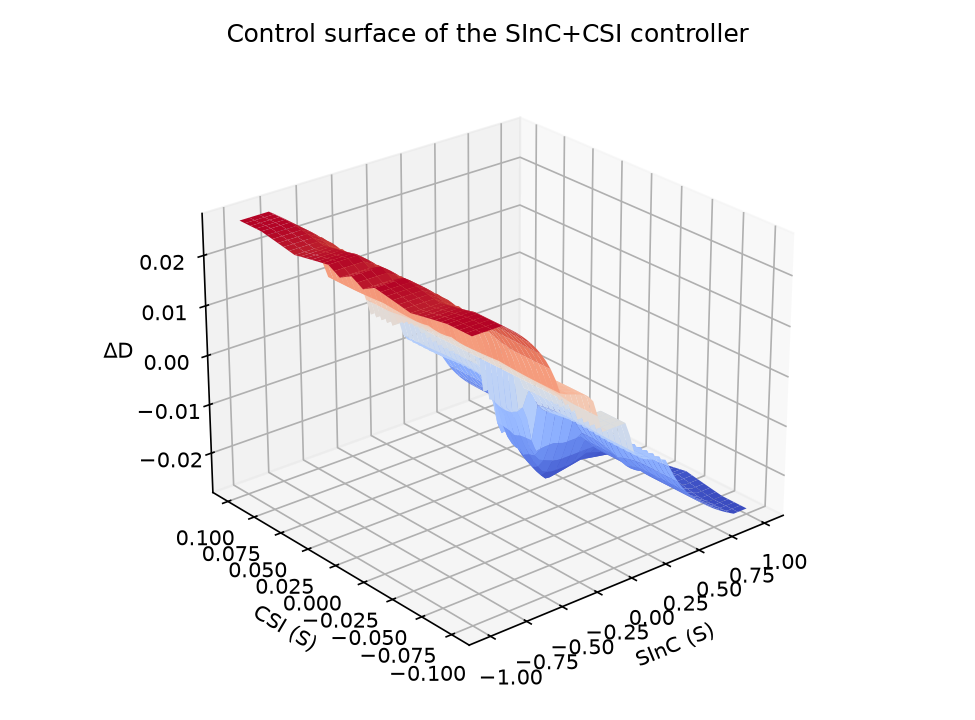
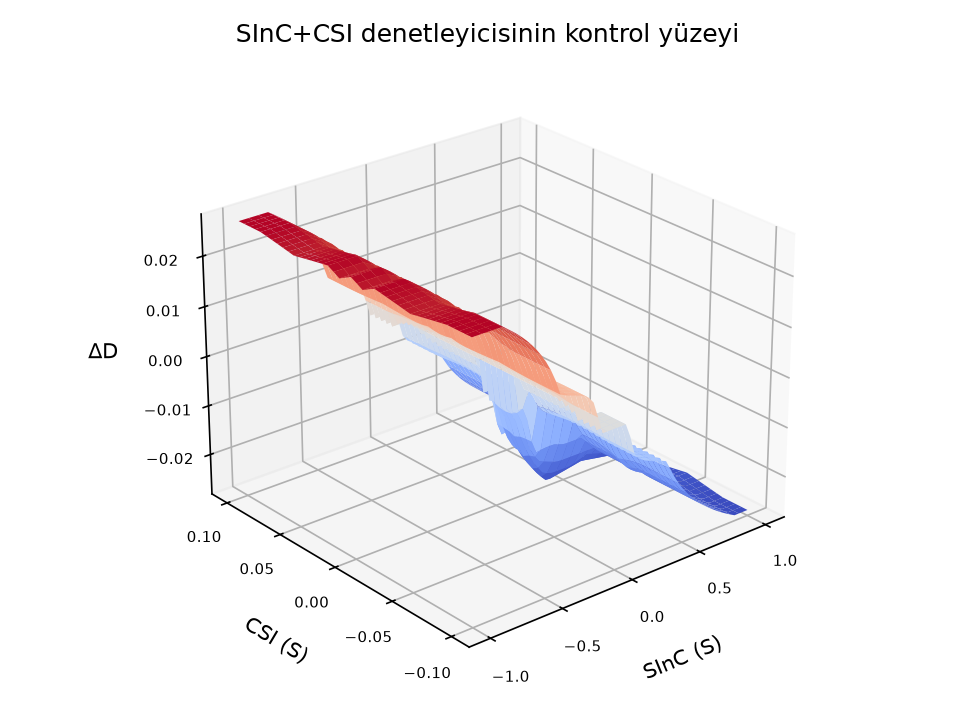
Figures: Turkish titles, axis labels and legends
The report and slides are in Turkish, but the figures still had English text.
Plot labels now come from separate Turkish dictionaries; the English names stay
as keys in the CSV tables the report reads, so no numbers change (CSVs identical
after the rerun). Also: tick spacing on the 3D control surface, legend moved off
the bars in the ablation chart, sampling label no longer crosses the arrow in
the block diagram.

diff --git a/experiments/proposed/plot_noise.py b/experiments/proposed/plot_noise.py
@@ -29,6 +29,19 @@ LABEL = {
     "prop+C": "Proposed + C", "prop+FD": "Proposed + F + D", "prop+FDC": "Proposed + F + D + C (robust)",
     "prop+FDC+gauss": "Robust + Gaussian MF",
 }
+# Turkish names for the figures only (LABEL stays English: it is the key in the CSV tables the report reads).
+LABEL_TR = {
+    "po": "P&O", "po+F": "P&O + filtre", "inc": "InC", "inc+F": "InC + filtre",
+    "flc_sinc": "Alg. 3 (makale)", "alg3+FDC": "Alg. 3 + dayanıklı kestirici",
+    "flc_sinc_csi": "Önerilen (makale)", "prop+F": "Önerilen + F", "prop+D": "Önerilen + D",
+    "prop+C": "Önerilen + C", "prop+FD": "Önerilen + F + D", "prop+FDC": "Önerilen + F + D + C (dayanıklı)",
+    "prop+FDC+gauss": "Dayanıklı + Gauss ÜF",
+}
+
+
+def pct(x: float) -> str:
+    """Turkish percent notation for figure labels: 0.5 -> '%0,5'."""
+    return "%" + f"{x:g}".replace(".", ",")
 
 
 def main() -> None:
@@ -47,10 +60,10 @@ def main() -> None:
              "po+F": ("tab:gray", "-"), "inc+F": ("tab:brown", "-")}
     for v, (c, ls) in style.items():
         d = agg[agg.variant == v]
-        ax.errorbar(d.noise_pct_fs, d.eff, yerr=d.eff_std, color=c, ls=ls, marker="o", capsize=3, label=LABEL[v])
-    ax.set_xlabel("Measurement noise σ (% of full scale: Voc, Isc)")
-    ax.set_ylabel("Average MPPT efficiency (%)")
-    ax.set_title("Noise robustness (Fig. 17 profile, mean ± std over 5 seeds)")
+        ax.errorbar(d.noise_pct_fs, d.eff, yerr=d.eff_std, color=c, ls=ls, marker="o", capsize=3, label=LABEL_TR[v])
+    ax.set_xlabel("Ölçüm gürültüsü σ (tam ölçeğin yüzdesi: Voc, Isc)")
+    ax.set_ylabel("Ortalama MPPT verimi (%)")
+    ax.set_title("Gürültüye dayanıklılık (makale Şekil 17 profili, 5 tohum: ortalama ± std. sapma)")
     ax.set_ylim(30, 100)
     ax.grid(alpha=0.3)
     ax.legend(fontsize=8, loc="lower left")
@@ -65,12 +78,13 @@ def main() -> None:
     x = np.arange(len(abl))
     for k, lv in enumerate(levels):
         d = agg[agg.noise_pct_fs == lv].set_index("variant").loc[abl]
-        ax.bar(x + (k - 1) * w, d.eff, w, yerr=d.eff_std, capsize=2, label=f"σ = {lv:g} % FS")
-    ax.set_xticks(x, [LABEL[a] for a in abl], rotation=20, ha="right", fontsize=8)
-    ax.set_ylabel("Efficiency (%)")
-    ax.set_ylim(40, 100)
-    ax.set_title("Ablation of the robust SInC estimator (F = EMA filter, D = dead band, C = clipping)")
-    ax.legend()
+        ax.bar(x + (k - 1) * w, d.eff, w, yerr=d.eff_std, capsize=2, label=f"σ = {pct(lv)} tam ölçek")
+    ax.set_xticks(x, [LABEL_TR[a] for a in abl], rotation=20, ha="right", fontsize=8)
+    ax.set_ylabel("Verim (%)")
+    ax.set_ylim(40, 110)
+    ax.set_yticks(range(40, 101, 10))
+    ax.set_title("Dayanıklı SInC kestiricisinin ablasyonu (F: EMA filtresi, D: ölü bölge, C: kırpma)")
+    ax.legend(loc="upper center", ncol=3, fontsize=9)
     ax.grid(axis="y", alpha=0.3)
     fig.tight_layout()
     fig.savefig(FIG / "noise_ablation.png", dpi=150)
@@ -82,9 +96,9 @@ def main() -> None:
         lg = run(make(v), noise_std=(lv * PANEL.voc, lv * PANEL.isc), seed=0)
         ax[0, col].plot(lg["t"], lg["p_pv"], "k", lw=0.7, label="P_pv")
         ax[0, col].plot(lg["t"], lg["p_opt"], "r:", label="P_opt")
-        ax[0, col].set_title(f"{LABEL[v]}, σ = 0.5 % FS")
+        ax[0, col].set_title(f"{LABEL_TR[v]}, σ = %0,5 tam ölçek")
         ax[1, col].plot(lg["t"], lg["d"], lw=0.7)
-        ax[1, col].set_xlabel("Time (s)")
+        ax[1, col].set_xlabel("Zaman (s)")
     ax[0, 0].set_ylabel("P (W)"); ax[1, 0].set_ylabel("D"); ax[0, 0].legend()
     fig.tight_layout()
     fig.savefig(FIG / "noise_timeseries_0p5pct.png", dpi=150)

diff --git a/experiments/baseline/plot_system.py b/experiments/baseline/plot_system.py
@@ -36,7 +36,7 @@ def pv_curves() -> None:
     for a in ax:
         a.grid(alpha=0.3)
     ax[1].legend(fontsize=8)
-    fig.suptitle("SPR-210 single-diode model, 25 °C")
+    fig.suptitle("SPR-210 tek diyot modeli, 25 °C")
     fig.tight_layout()
     fig.savefig(FIG / "pv_curves.png", dpi=150)
 
@@ -67,7 +67,10 @@ def surface() -> None:
     fig = plt.figure(figsize=(6.5, 4.8))
     ax = fig.add_subplot(projection="3d")
     ax.plot_surface(S, C, Z, cmap="coolwarm", linewidth=0, antialiased=True)
-    ax.set(xlabel="SInC (S)", ylabel="CSI (S)", zlabel="ΔD", title="Control surface of the SInC+CSI controller")
+    ax.set_xlabel("SInC (S)", labelpad=8); ax.set_ylabel("CSI (S)", labelpad=8); ax.set_zlabel("ΔD", labelpad=8)
+    ax.set_title("SInC+CSI denetleyicisinin kontrol yüzeyi")
+    ax.set_xticks([-1.0, -0.5, 0.0, 0.5, 1.0]); ax.set_yticks([-0.1, -0.05, 0.0, 0.05, 0.1])
+    ax.tick_params(labelsize=7)
     ax.view_init(elev=25, azim=-130)
     fig.tight_layout()
     fig.savefig(FIG / "fis_surface.png", dpi=150)
@@ -86,24 +89,25 @@ def diagram() -> None:
         if text:
             ax.text((x0 + x1) / 2, (y0 + y1) / 2 + dy, text, ha="center", fontsize=8)
 
-    box(0.2, 2.3, 1.8, 1.0, "PV panel\nSPR-210\n(G, T)", "#fff3c4")
-    box(2.8, 2.3, 2.2, 1.0, "Boost converter\nL=12 mH, Ce=150 µF\nCo=250 µF", "#dbeafe")
-    box(5.8, 2.3, 1.4, 1.0, "Load\nR = 50 Ω", "#e5e7eb")
+    box(0.2, 2.3, 1.8, 1.0, "PV paneli\nSPR-210\n(G, T)", "#fff3c4")
+    box(2.8, 2.3, 2.2, 1.0, "Boost dönüştürücü\nL = 12 mH, Ce = 150 µF\nCo = 250 µF", "#dbeafe")
+    box(5.8, 2.3, 1.4, 1.0, "Yük\nR = 50 Ω", "#e5e7eb")
     arrow(2.0, 2.8, 2.8, 2.8, "V, I")
     arrow(5.0, 2.8, 5.8, 2.8, "Vout")
-    box(0.2, 0.3, 2.4, 1.0, "SInC = I/V + ΔI/ΔV\nCSI = ΔSInC\n(+ robust estimator)", "#dcfce7")
-    box(3.3, 0.3, 2.4, 1.0, "Mamdani FIS\n35 rules (Table 5)\ncentroid → ΔD", "#fce7f3")
-    box(6.4, 0.3, 1.8, 1.0, "D[k] = D[k−1] + ΔD\n0.05 ≤ D ≤ 0.95", "#ede9fe")
-    arrow(1.1, 2.3, 1.1, 1.3, "sample every 1 ms", dy=0.0)
+    box(0.2, 0.3, 2.4, 1.0, "SInC = I/V + ΔI/ΔV\nCSI = ΔSInC\n(+ dayanıklı kestirici)", "#dcfce7")
+    box(3.3, 0.3, 2.4, 1.0, "Mamdani çıkarımı\n35 kural (makale Tablo 5)\nağırlık merkezi → ΔD", "#fce7f3")
+    box(6.4, 0.3, 1.8, 1.0, "D[k] = D[k−1] + ΔD\n0,05 ≤ D ≤ 0,95", "#ede9fe")
+    arrow(1.1, 2.3, 1.1, 1.3)
+    ax.text(1.25, 1.8, "1 ms'de bir\nörnekleme", fontsize=8, va="center", ha="left")
     arrow(2.6, 0.8, 3.3, 0.8)
     arrow(5.7, 0.8, 6.4, 0.8)
     ax.add_patch(FancyArrowPatch((8.2, 0.8), (8.8, 0.8), arrowstyle="-", color="k"))
     ax.add_patch(FancyArrowPatch((8.8, 0.8), (8.8, 1.9), arrowstyle="-", color="k"))
     ax.add_patch(FancyArrowPatch((8.8, 1.9), (3.9, 1.9), arrowstyle="-", color="k"))
     arrow(3.9, 1.9, 3.9, 2.3)
-    ax.text(6.4, 2.0, "duty cycle D (PWM 10 kHz)", fontsize=8, ha="center")
-    ax.text(9.1, 2.8, "Plant: averaged model,\nforward Euler, dt = 10 µs", fontsize=8, va="center")
-    ax.text(9.1, 0.8, "MPPT controller\n(Python)", fontsize=8, va="center")
+    ax.text(6.4, 2.0, "görev oranı D (PWM 10 kHz)", fontsize=8, ha="center")
+    ax.text(9.1, 2.8, "Benzetim: ortalama model,\nileri Euler, dt = 10 µs", fontsize=8, va="center")
+    ax.text(9.1, 0.8, "MPPT denetleyicisi\n(Python)", fontsize=8, va="center")
     fig.tight_layout()
     fig.savefig(FIG / "system_diagram.png", dpi=150)
 

diff --git a/experiments/baseline/reproduce_table6_table7.py b/experiments/baseline/reproduce_table6_table7.py
@@ -28,6 +28,8 @@ TAB = ROOT / "results" / "tables"
 
 ALGOS = ["po", "inc", "flc_sinc", "flc_sinc_csi"]
 LABELS = {"po": "P&O", "inc": "InC", "flc_sinc": "Alg. 3 (SInC)", "flc_sinc_csi": "Proposed (SInC+CSI)"}
+# Turkish names for the figures only (LABELS stays English: it is the key in the CSV tables the report reads).
+LABELS_TR = {"po": "P&O", "inc": "InC", "flc_sinc": "Alg. 3 (SInC)", "flc_sinc_csi": "Önerilen (SInC+CSI)"}
 
 PAPER_T6 = {  # efficiency %, conv avg ms, RMSE, RMS %
     "po": (95.41, 65.0, 8.98, 96.34), "inc": (95.6, 60.0, 8.9, 96.4),
@@ -53,12 +55,12 @@ def table6() -> pd.DataFrame:
         lg = logs[a]
         ax[r, 0].plot(lg["t"], lg["p_pv"], "k", lw=0.8, label="P_pv")
         ax[r, 0].plot(lg["t"], lg["p_opt"], "r:", label="P_opt")
-        ax[r, 0].set_ylabel(f"{LABELS[a]}\nP (W)")
+        ax[r, 0].set_ylabel(f"{LABELS_TR[a]}\nP (W)")
         ax[r, 1].plot(lg["t"], lg["d"], lw=0.8)
         ax[r, 1].set_ylabel("D")
     ax[0, 0].legend(loc="upper left")
-    ax[-1, 0].set_xlabel("Time (s)"); ax[-1, 1].set_xlabel("Time (s)")
-    fig.suptitle("Fig. 17 irradiance profile, 25 °C: PV power and duty cycle (cf. paper Figs. 18–22)")
+    ax[-1, 0].set_xlabel("Zaman (s)"); ax[-1, 1].set_xlabel("Zaman (s)")
+    fig.suptitle("Makale Şekil 17 ışınım profili, 25 °C: panel gücü ve görev oranı (karş. makale Şekil 18–22)")
     fig.tight_layout()
     fig.savefig(FIG / "table6_power_duty.png", dpi=150)
     return pd.DataFrame(rows)
@@ -74,11 +76,11 @@ def table7() -> pd.DataFrame:
             s = summarize(lg, [0.0, 0.2, 0.4])
             p = PAPER_T7[(g, a)]
             rows.append({"G": g, "algorithm": LABELS[a], **s, "paper_rmse_w": p[0], "paper_rms_pct": p[1]})
-            ax[0].plot(lg["t"], lg["p_pv"], lw=0.8, label=LABELS[a])
-            ax[1].plot(lg["t"], lg["d"], lw=0.8, label=LABELS[a])
+            ax[0].plot(lg["t"], lg["p_pv"], lw=0.8, label=LABELS_TR[a])
+            ax[1].plot(lg["t"], lg["d"], lw=0.8, label=LABELS_TR[a])
         ax[0].plot(lg["t"], lg["p_opt"], "r:", label="P_opt")
-        ax[0].set_ylabel("P (W)"); ax[1].set_ylabel("D"); ax[1].set_xlabel("Time (s)")
-        ax[0].legend(); ax[0].set_title(f"Load steps 50→20→35 Ω at G = {g} W/m² (cf. paper Figs. 24–25)")
+        ax[0].set_ylabel("P (W)"); ax[1].set_ylabel("D"); ax[1].set_xlabel("Zaman (s)")
+        ax[0].legend(); ax[0].set_title(f"G = {g} W/m² ışınımda yük basamakları 50→20→35 Ω (karş. makale Şekil 24–25)")
         fig.tight_layout()
         fig.savefig(FIG / f"table7_load_{g}.png", dpi=150)
     return pd.DataFrame(rows)

diff --git a/experiments/baseline/duty_sweep_fig13.py b/experiments/baseline/duty_sweep_fig13.py
@@ -48,12 +48,12 @@ def main() -> None:
         ax[1, col].plot(t[m], sinc[m], "k")
         ax[1, col].axhline(0, color="gray", lw=0.5)
         ax[2, col].plot(t[m], csi[m], "tab:blue")
-        ax[2, col].set_xlabel("Time (s)")
+        ax[2, col].set_xlabel("Zaman (s)")
     ax[0, 0].set_ylabel("P_pv (W)"); ax[1, 0].set_ylabel("SInC (S)"); ax[2, 0].set_ylabel("CSI (S)")
     ax[0, 0].legend()
     for a in ax[1:].ravel():
         a.set_xlim(0.2, 0.5)
-    fig.suptitle("Open-loop duty sweep 0.1→0.9→0.1 (reproduction of paper Fig. 11b / Fig. 13)")
+    fig.suptitle("Açık çevrim görev oranı taraması 0,1→0,9→0,1 (makale Şekil 11b / Şekil 13'ün yeniden üretimi)")
     fig.tight_layout()
     fig.savefig(FIG / "fig13_duty_sweep_sinc_csi.png", dpi=150)
     df = pd.DataFrame(rows)
